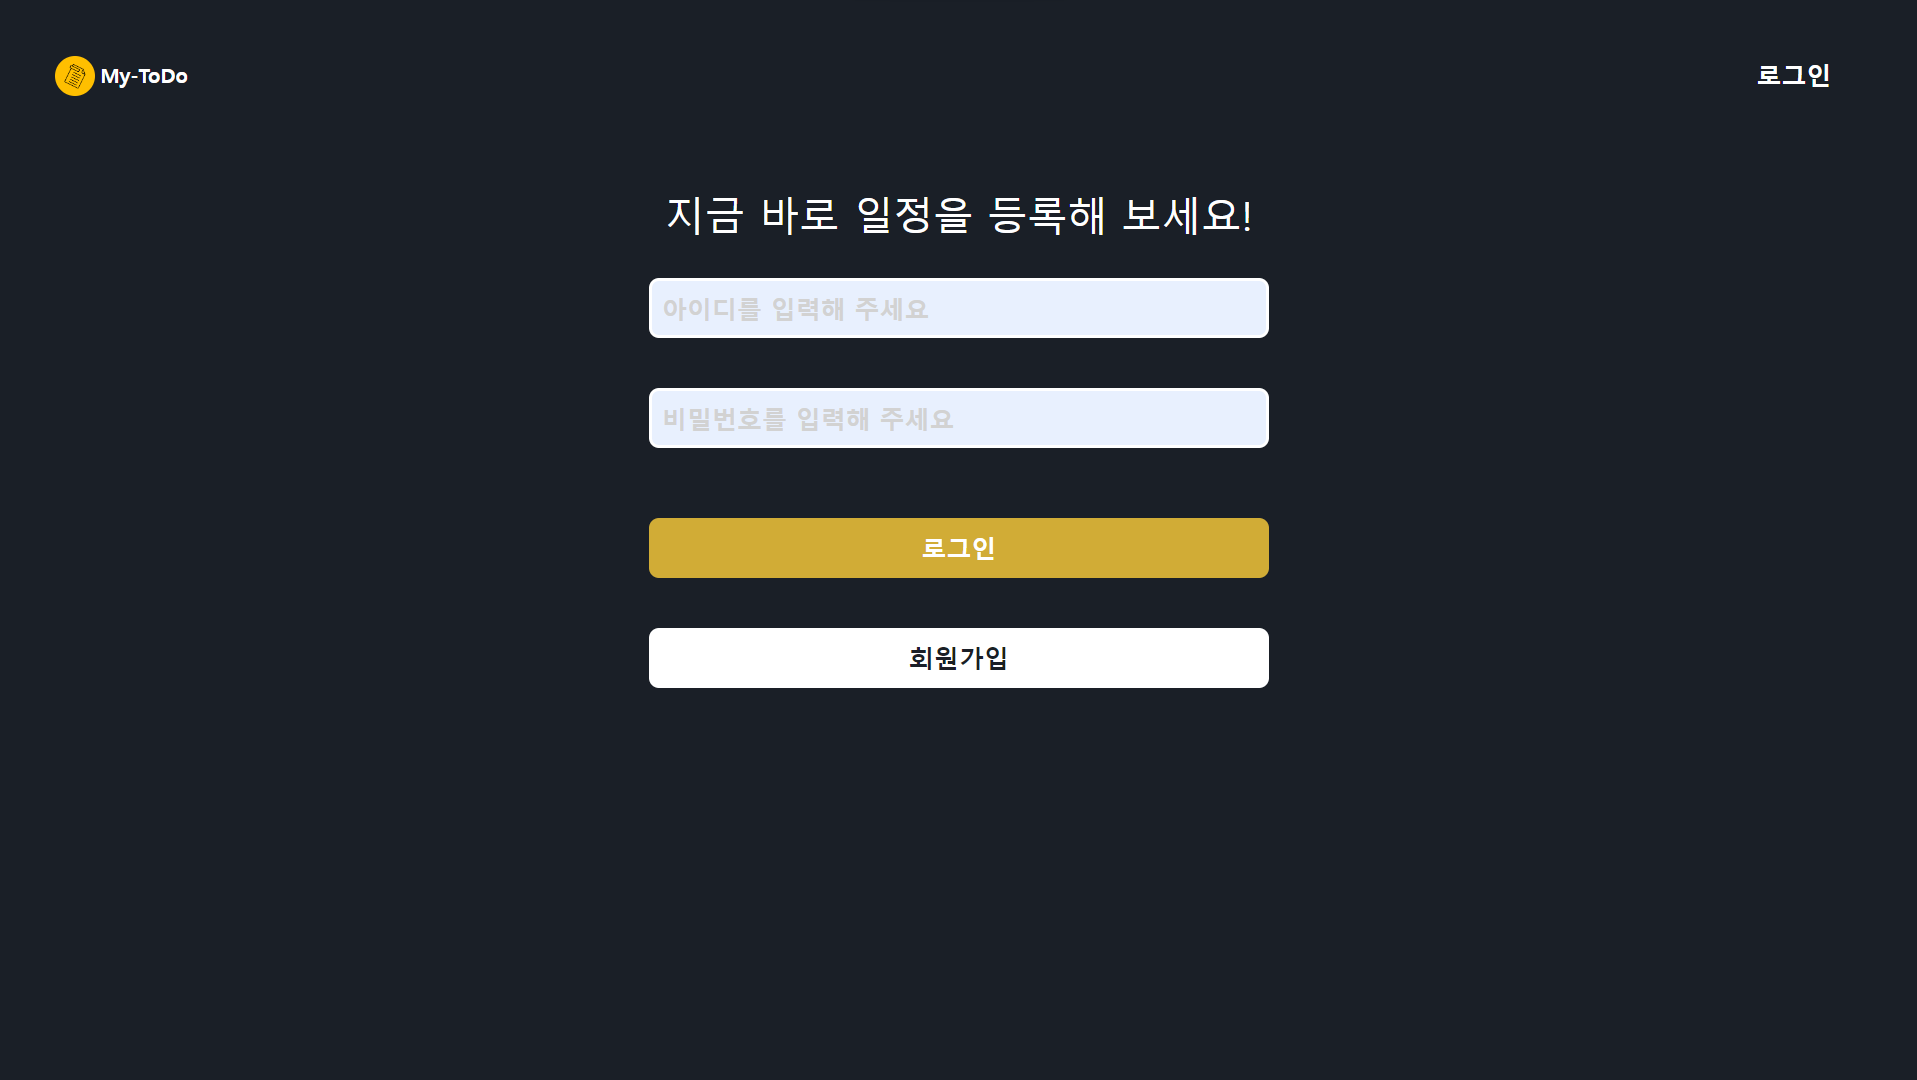
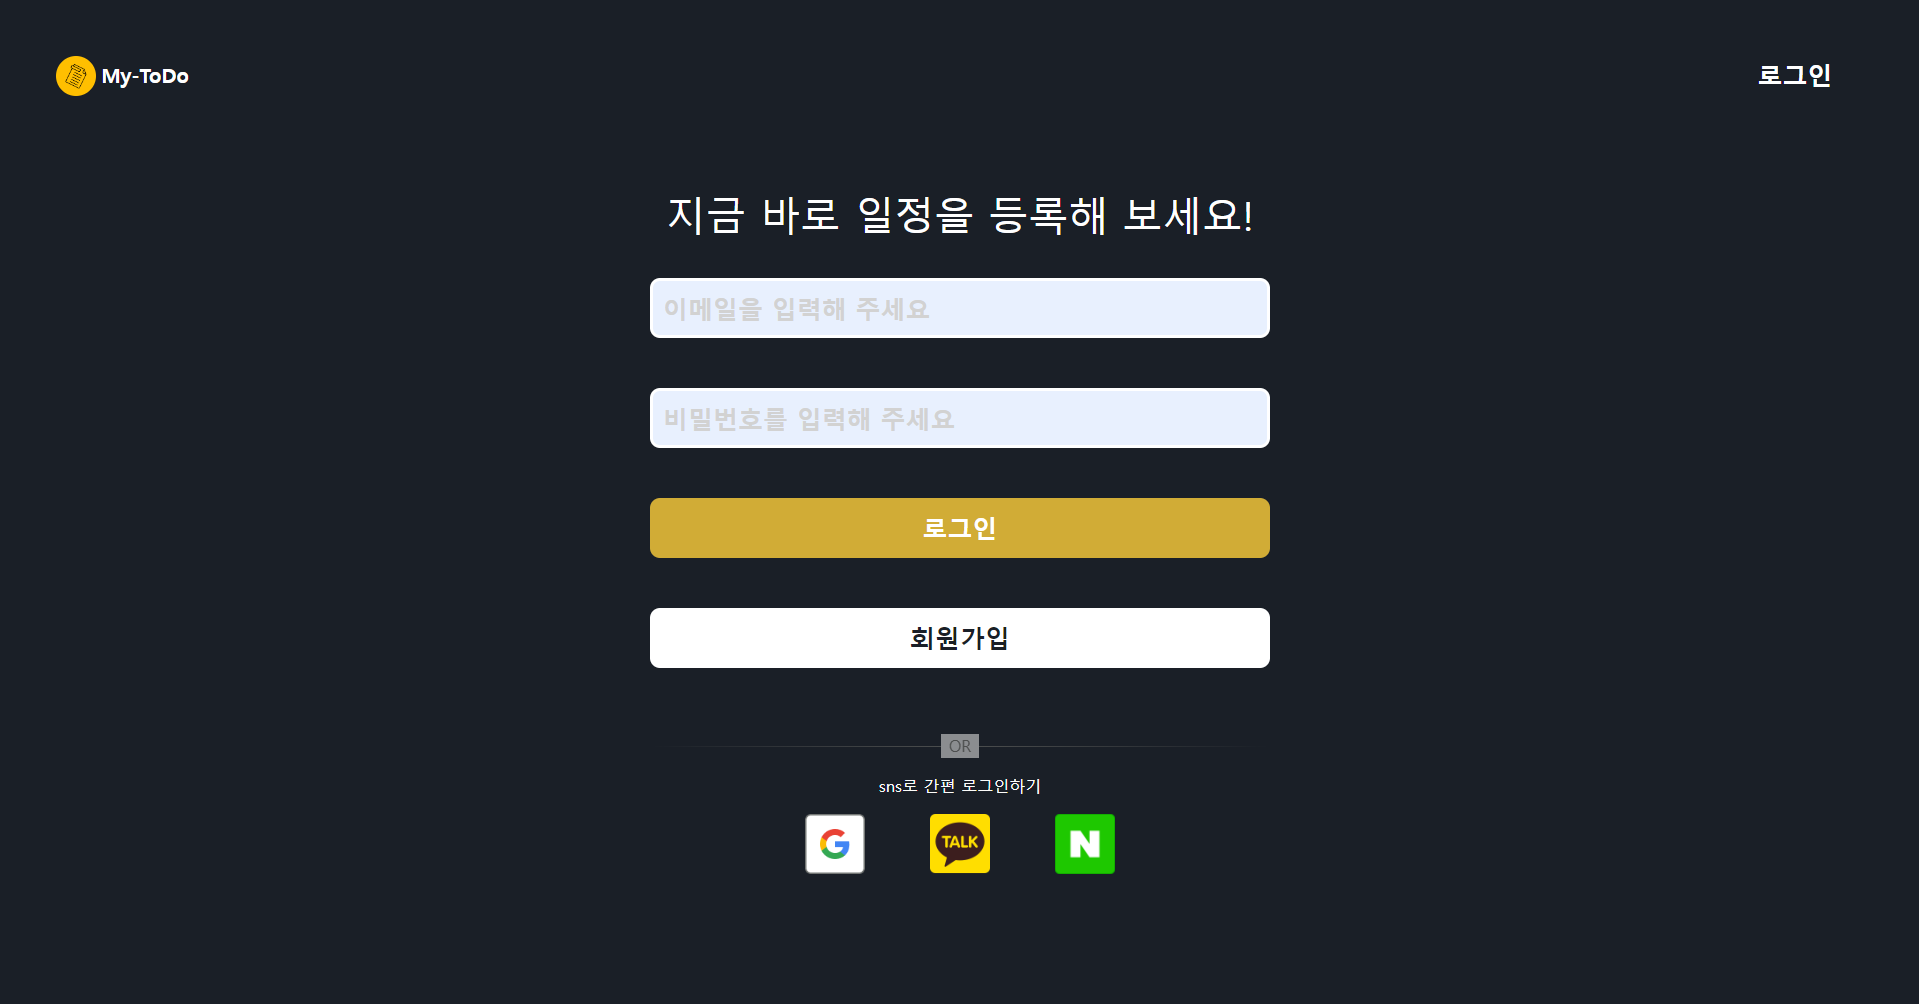
feat:아이콘 및 프로젝트  데이터 추가

diff --git a/src/components/data/projectData.js b/src/components/data/projectData.js
@@ -43,20 +43,21 @@ export const PROJECT_DATA = [
       img: '시작.png',
       title: 'My-ToDo',
       people: '1인 프로젝트',
-      discript: `처음 리액트를 학습할 때 간단하게 했었던 투두리스트를 생각하며, 캘린더와 드래그 앤 드롭 등 직접 구현해 보고 싶었던 기능들과 함께 학습을 위해 개발한 일정관리 서비스 입니다. 
+      discript: `처음 리액트를 학습할 때 간단하게 만들었던 투두리스트를 생각하며, 캘린더와 드래그 앤 드롭 등 직접 구현해 보고 싶었던 기능들과 함께 학습을 위해 개발한 일정관리 서비스 입니다. 
       
-      작은 서비스이지만 처음부터 끝까지 혼자서 개발을 해본 것에 의미가 있었고, 그 과정에서 Redux Store, JWT 등을 학습한 것에도 의미가 있었습니다. 또한 gitpage를 통한 배포도 경험해 볼 수 있었습니다. `,
+      작은 서비스이지만 처음부터 끝까지 혼자서 개발을 해본 것에 의미가 있었고, 그 과정에서 Redux Store, JWT 등을 학습한 것에도 의미가 있었습니다. 또한, 배포한 이후에도 새로 학습한 Firebase를 적용하는 등 조금씩 업데이트 해온 서비스 입니다.
+      `,
     },
     back: {
-      imgList: ['시작.png', '회원가입.png', '로그인.png', '메인화면.png'],
+      imgList: ['시작.png', '회원.png', '로그인.png', '메인화면.png'],
       mainFunc: [
-        '캘린더를 통해 일정 등록',
-        '등록한 일정 캘린더를 통해 미리보기',
-        '등록한 일정 수정',
+        'SNS를 통한 간편 로그인',
+        '캘린더를 통해 일정 미리보기 기능',
+        '선택한 날짜의 일정 등록 및 수정 기능',
       ],
       url: [
         { icon: 'github.png', url: 'https://github.com/BaeDongWoo/ToDo-List' },
-        { icon: 'url.png', url: 'https://baedongwoo.github.io/ToDo-List/' },
+        { icon: 'url.png', url: 'https://bdw-my-todo.vercel.app/' },
       ],
       skills: [
         { name: 'REACT', bgcol: '#61DAFB', color: '#fff' },
@@ -64,9 +65,9 @@ export const PROJECT_DATA = [
         { name: 'CSS', bgcol: '#1572B6', color: '#fff' },
         { name: 'AXIOS', bgcol: '#5A29E4', color: '#fff' },
         { name: 'REDUX', bgcol: '#764ABC', color: '#fff' },
-        { name: 'NODE.JS', bgcol: '#339933', color: '#fff' },
-        { name: 'EXPRESS', bgcol: '#000000', color: '#fff' },
         { name: 'MYSQL', bgcol: '#4479A1', color: '#fff' },
+        { name: 'Firebase', bgcol: '#FFCA28', color: '#fff' },
+        { name: 'VERCEL', bgcol: '#000000', color: '#fff' },
       ],
     },
   },
@@ -75,9 +76,9 @@ export const PROJECT_DATA = [
       img: '땡그랑_title-002 (2).png',
       title: '땡그랑',
       people: '4인 프로젝트',
-      discript: `신한 DS 교육 과정 중 진행한 팀 프로젝트로 코로나 시대를 거치면서 MZ세대 사이에서는 무지출 챌린지, 거지방 등의 짠테크가 유행함에 따라 이를 쉽게 제공하기 위한 챌린지형 저축 서비스 입니다. 
+      discript: `코로나 시대를 거치면서 MZ세대 사이에서는 무지출 챌린지, 거지방 등의 짠테크가 유행함에 따라 이를 쉽게 제공하기 위한 챌린지형 저축 서비스 입니다. 
         
-      기획부터 배포까지 진행하며 서비스를 개발하는 과정을 경험해 볼 수 있었고, 팀원들과 협업하는 과정에서 다양한 협업 툴과 컨벤션, 명세 등의 중요성도 느낄 수 있었습니다.
+      커뮤니티 부분을 담당했으며 게시물과 댓글의 CRUD 기능, 해시태그 기능, 필터링 기능, 뉴스 정보 크롤링, ChatGPT API 활용 등을 구현했습니다. 기획부터 배포까지 전반적인 웹 서비스를 개발하는 과정을 경험해 볼 수 있었고, 다양한 협업 툴과 컨벤션, 명세 등의 중요성도 느낄 수 있었습니다.
         `,
     },
     back: {

diff --git a/src/components/data/skillIconData.js b/src/components/data/skillIconData.js
@@ -85,4 +85,13 @@ export const SKILL_ICON_LIST = [
     또한, ERD_Cloud를 통해 직접 다이어그램을 작성하고 데이터 베이스를 설계했던 경험이 있습니다.
     `,
   },
+  {
+    name: 'Firebase',
+    bgcol: '#FFCA28',
+    color: '#fff',
+    content: `Firebase 인증 서비스를 활용할 수 있습니다. 기본적인 이메일 인증부터 소셜 인증 기능까지 활용 할 수 있고,
+    Firebase에서 제공하지 않는 네이버, 카카오 등과 같은 인증 서비스와 함께 연동하여 사용 가능합니다.
+    또한, 기본적이 NoSQL 데이터베이스의 구조를 이해하고 있으며, Firebase Store의 컬렉션 구조에 따라 기본적인 데이터 추가 및 삭제, 수정이 가능합니다.
+    `,
+  },
 ];

diff --git a/src/app/layout.tsx b/src/app/layout.tsx
@@ -31,7 +31,9 @@ export default function RootLayout({
 }) {
   return (
     <>
-      <body>{children}</body>
+      <html>
+        <body>{children}</body>
+      </html>
     </>
   );
 }
